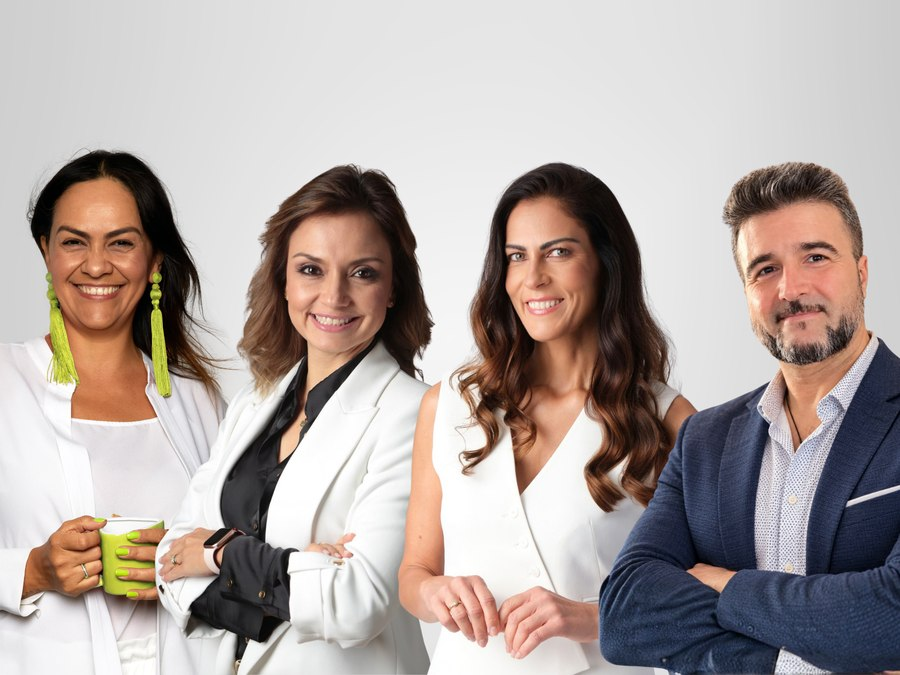
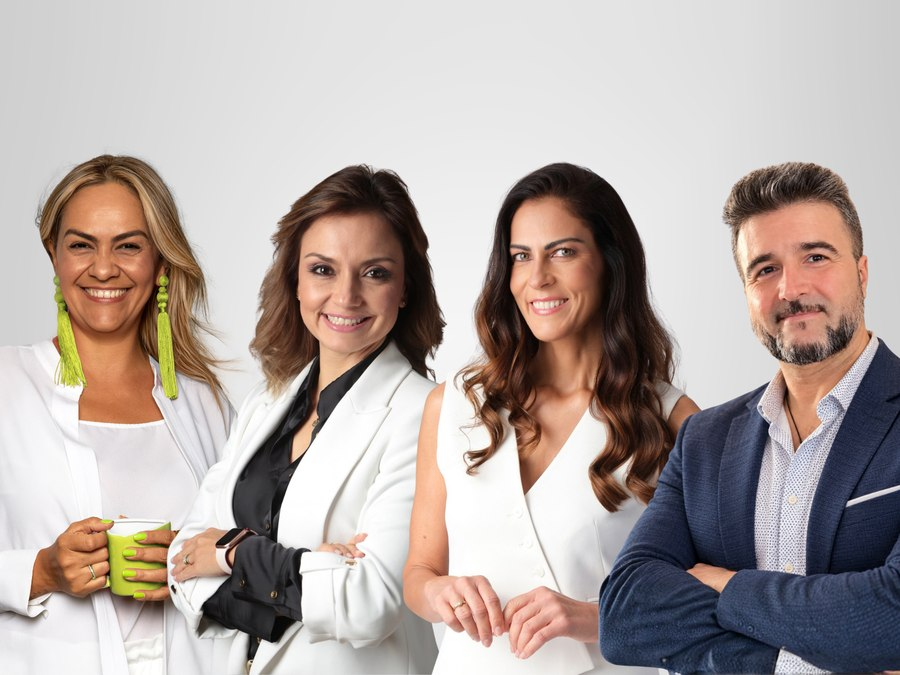
Update Viviana Varon's photo and talk title
- New portrait for Viviana, same framing and card-colour backdrop as
  before; the small round-table thumbnail picks it up too
- Round table group shot replaced with the updated version
- Talk retitled "El poder de la autenticidad: La caja de herramientas
  de inteligencia emocional para desprogramar creencias limitantes y
  activar tu 'yo' de autoridad." In the agenda the short title heads
  the block and the rest becomes its description

diff --git a/index.html b/index.html
@@ -342,7 +342,7 @@
           <span class="speaker-card__tag">Confirmada</span>
           <h3 class="speaker-card__name">Viviana Varón</h3>
           <p class="speaker-card__role">Coach y Terapeuta</p>
-          <p class="speaker-card__talk">"El poder de las palabras"</p>
+          <p class="speaker-card__talk">"El poder de la autenticidad: La caja de herramientas de inteligencia emocional para desprogramar creencias limitantes y activar tu “yo” de autoridad."</p>
           <p class="speaker-card__bio">Identificación de creencias que te bloquean, herramientas de inteligencia emocional y tu sello de autoridad: "la autenticidad".</p>
           <a href="https://www.instagram.com/la_varoncoach/" class="speaker-card__meta" target="_blank" rel="noopener">
             <svg width="14" height="14" viewBox="0 0 24 24" fill="none"><rect x="2" y="2" width="20" height="20" rx="5.5" stroke="currentColor" stroke-width="1.8"/><circle cx="12" cy="12" r="4.5" stroke="currentColor" stroke-width="1.8"/><circle cx="17.8" cy="6.2" r="1.3" fill="currentColor"/></svg>
@@ -519,8 +519,8 @@
           <div class="timeline-item__time">10:30</div>
           <div class="timeline-item__dot timeline-item__dot--active"></div>
           <div class="timeline-item__content timeline-item__content--highlight">
-            <h4>Viviana Varón — El poder de las palabras</h4>
-            <p>Creencias que te bloquean, inteligencia emocional y tu sello de autoridad: la autenticidad</p>
+            <h4>Viviana Varón — El poder de la autenticidad</h4>
+            <p>La caja de herramientas de inteligencia emocional para desprogramar creencias limitantes y activar tu “yo” de autoridad.</p>
             <span class="timeline-item__duration">10:30 – 11:05</span>
           </div>
         </div>
